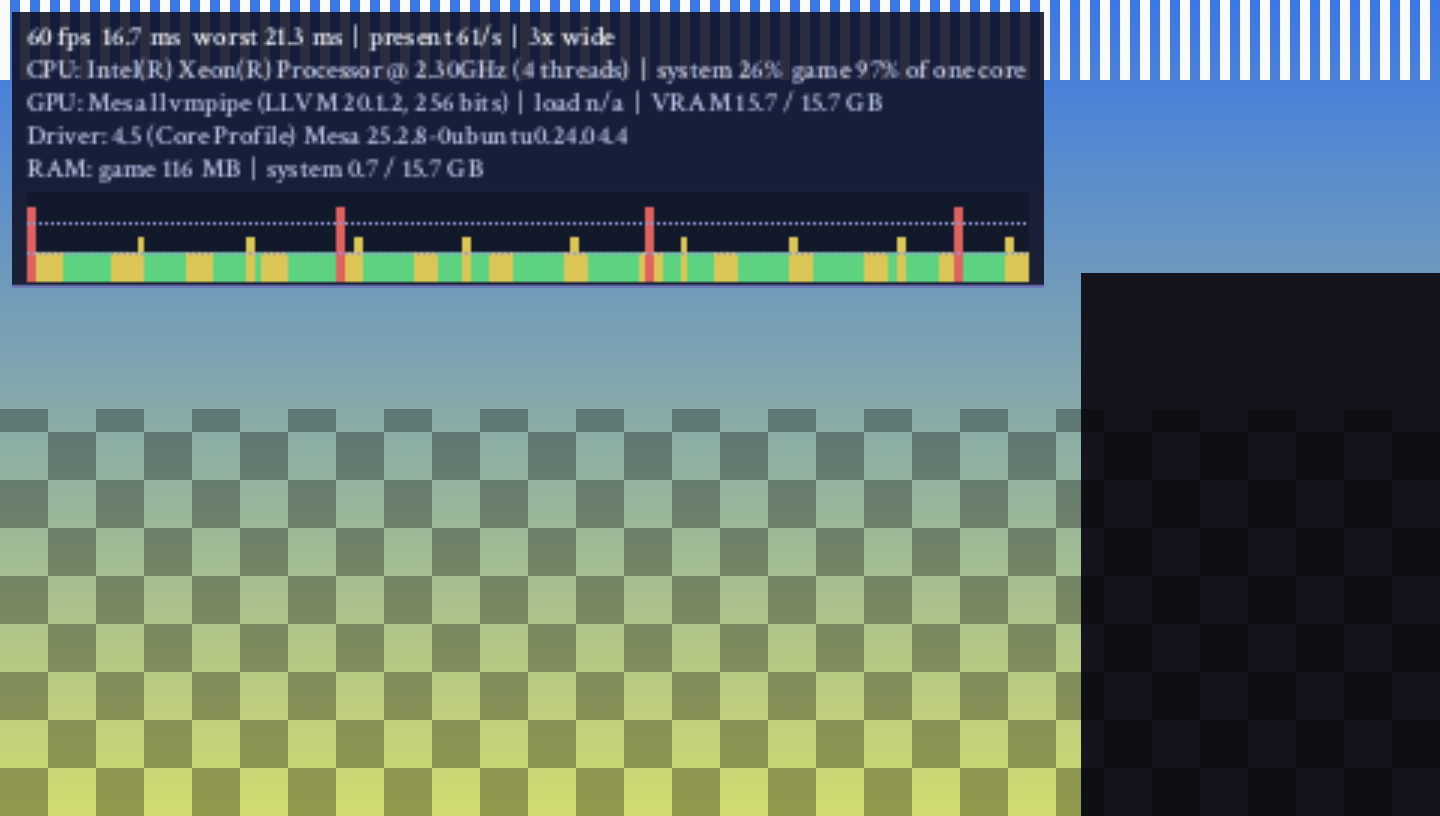
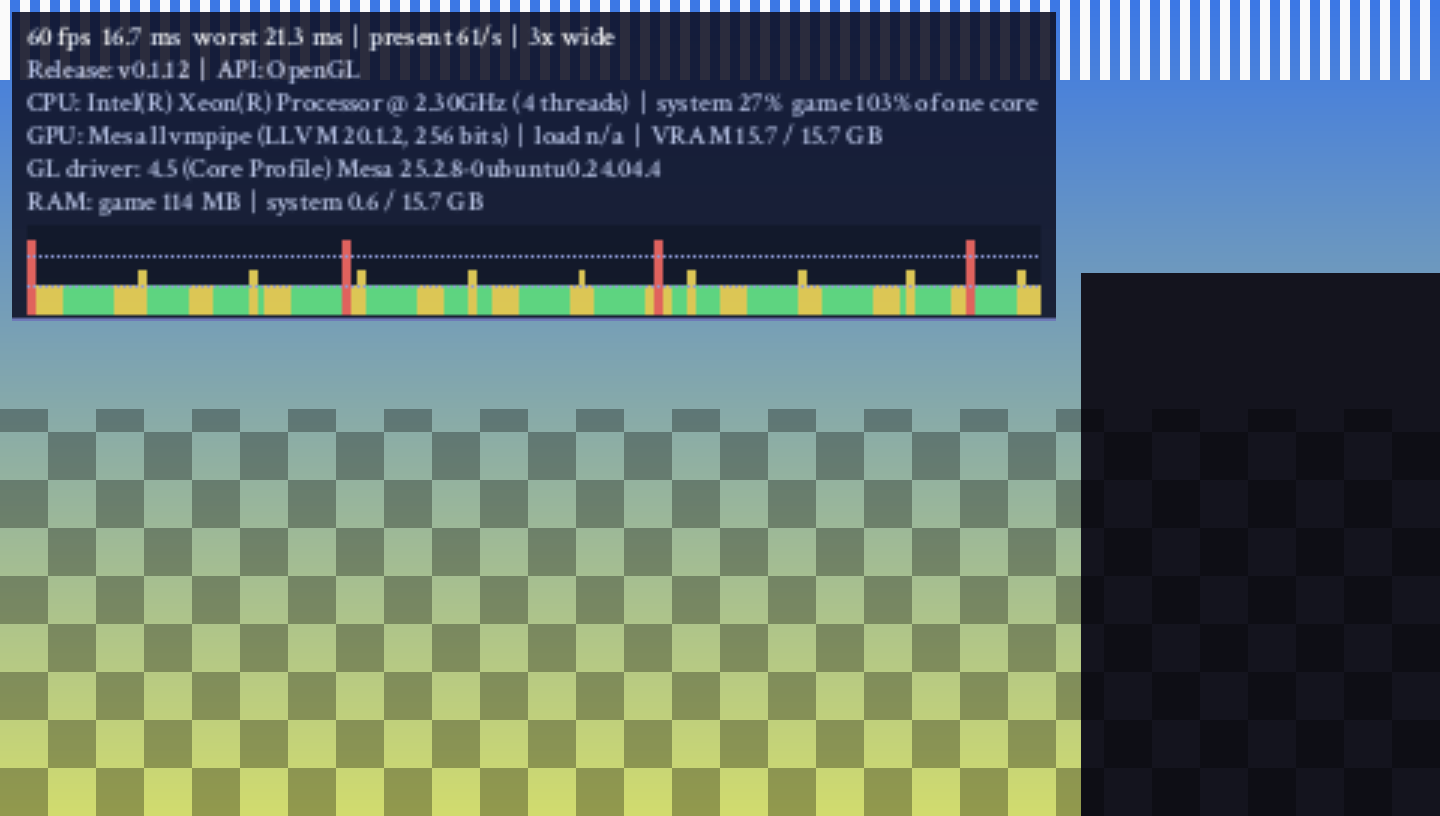
Show release version and graphics API (OpenGL / Vulkan device and driver) in the performance overlay
Claude-Session: https://claude.ai/code/session_013sMvMRHBwb73MSEYry6Rtv

Changed region(s): [[0.0, 0.0, 0.75, 0.3983]]

diff --git a/psprecomp/runtime/src/psp_ge_draw.cpp b/psprecomp/runtime/src/psp_ge_draw.cpp
@@ -3684,11 +3684,16 @@ static int perf_rss_mb() {
 #endif
 }
 
+#ifndef PSPRECOMP_RELEASE_VERSION
+#define PSPRECOMP_RELEASE_VERSION "dev"
+#endif
+static std::string psp_release_version() { return PSPRECOMP_RELEASE_VERSION; }
+
 // ---- system information for the performance overlay (Linux; elsewhere the fields read "n/a") ----
 struct SysInfo {
-    std::string cpu_model, gpu_model, gl_version;
+    std::string cpu_model, gpu_model, gl_version, api_name, release;   // api_name: "OpenGL" / "Vulkan 1.2.x"
     int cpu_threads = 0;
-    bool have_nvx = false, have_ati = false, init = false;
+    bool have_nvx = false, have_ati = false, init = false, vulkan = false;
     unsigned long long last_idle = 0, last_total = 0, last_proc = 0;   // /proc/stat jiffies, process utime+stime
     std::chrono::steady_clock::time_point last_t{};
     double cpu_sys = -1, cpu_proc = -1;          // percent; proc is of one core (can exceed 100)
@@ -3744,14 +3749,30 @@ static bool gl_has_ext(const char* name) {
 static void sys_info_init() {
     SysInfo& s = g_sys;
     s.init = true;
-    auto gs = [](GLenum e) { const GLubyte* p = glGetString(e); return p ? std::string(reinterpret_cast<const char*>(p)) : std::string(); };
-    s.gpu_model = gs(GL_RENDERER);
-    s.gl_version = gs(GL_VERSION);
-    const std::string vendor = gs(GL_VENDOR);
-    if (!vendor.empty() && s.gpu_model.find(vendor) == std::string::npos && vendor.size() < 24) s.gpu_model = vendor + " " + s.gpu_model;
-    s.have_nvx = gl_has_ext("GL_NVX_gpu_memory_info");
-    s.have_ati = gl_has_ext("GL_ATI_meminfo");
-    glGetError();
+    s.release = psp_release_version();
+#if defined(PSPRECOMP_HAVE_VKGL)
+    {
+        vkgl::DeviceInfo di;
+        if (vkgl::device_info(&di)) {   // GL-on-Vulkan: the GL strings are placeholders, ask the Vulkan device
+            s.api_name = "Vulkan (" + di.api + ")";
+            s.gpu_model = di.name;
+            s.gl_version = di.driver;
+            s.vram_total_gb = di.vram_total_gb;   // used: filled in by sysfs below where available
+            s.vulkan = true;
+        }
+    }
+#endif
+    if (!s.vulkan) s.api_name = "OpenGL";
+    if (!s.vulkan) {
+        auto gs = [](GLenum e) { const GLubyte* p = glGetString(e); return p ? std::string(reinterpret_cast<const char*>(p)) : std::string(); };
+        s.gpu_model = gs(GL_RENDERER);
+        s.gl_version = gs(GL_VERSION);
+        const std::string vendor = gs(GL_VENDOR);
+        if (!vendor.empty() && s.gpu_model.find(vendor) == std::string::npos && vendor.size() < 24) s.gpu_model = vendor + " " + s.gpu_model;
+        s.have_nvx = gl_has_ext("GL_NVX_gpu_memory_info");
+        s.have_ati = gl_has_ext("GL_ATI_meminfo");
+        glGetError();
+    }
 #ifdef __linux__
     s.cpu_model = sys_read_line("/proc/cpuinfo", "model name");
     if (s.cpu_model.empty()) s.cpu_model = sys_read_line("/proc/cpuinfo", "Hardware");
@@ -3820,14 +3841,16 @@ static std::string sys_info_text() {
     std::string r;
     auto clip = [](std::string v, size_t n) { if (v.size() > n) v.resize(n); return v; };
     auto pct = [&](double v) { if (v < 0) return std::string("n/a"); std::snprintf(b, sizeof b, "%.0f%%", v); return std::string(b); };
+    r += "Release: " + (s.release.empty() ? std::string("dev") : s.release) + "  |  API: " + s.api_name + "\n";
     r += "CPU: " + clip(s.cpu_model.empty() ? "n/a" : s.cpu_model, 48);
     if (s.cpu_threads) r += " (" + std::to_string(s.cpu_threads) + " threads)";
     r += "  |  system " + pct(s.cpu_sys) + "  game " + pct(s.cpu_proc) + " of one core\n";
     r += "GPU: " + clip(s.gpu_model.empty() ? "n/a" : s.gpu_model, 56) + "  |  load " + (s.gpu_busy >= 0 ? pct(double(s.gpu_busy)) : std::string("n/a"));
     if (s.vram_total_gb > 0 && s.vram_used_gb >= 0) { std::snprintf(b, sizeof b, "  |  VRAM %.1f / %.1f GB", s.vram_used_gb, s.vram_total_gb); r += b; }
     else if (s.vram_used_gb == -2) { std::snprintf(b, sizeof b, "  |  VRAM %.1f GB free", s.vram_total_gb); r += b; }
+    else if (s.vram_total_gb > 0) { std::snprintf(b, sizeof b, "  |  VRAM %.1f GB", s.vram_total_gb); r += b; }
     else r += "  |  VRAM n/a";
-    r += "\nDriver: " + clip(s.gl_version.empty() ? "n/a" : s.gl_version, 80) + "\n";
+    r += std::string("\n") + (s.vulkan ? "Driver: " : "GL driver: ") + clip(s.gl_version.empty() ? "n/a" : s.gl_version, 80) + "\n";
     const int mb = perf_rss_mb();
     if (mb >= 0) r += "RAM: game " + std::to_string(mb) + " MB";
     else r += "RAM: game n/a";

diff --git a/psprecomp/runtime/src/vk/vkgl_core.cpp b/psprecomp/runtime/src/vk/vkgl_core.cpp
@@ -1718,6 +1718,26 @@ static void log_stats() {
 static bool g_hdr_dirty = false;
 void core_set_hdr(bool on) { if (!G) return; G->ctx.set_hdr_wanted(on); g_hdr_dirty = true; }
 bool core_hdr_supported() { return G && G->ctx.hdr_supported(); }
+bool core_device_info(DeviceInfo* out) {
+    if (!G || !out) return false;
+    const VkPhysicalDeviceProperties& p = G->ctx.props();
+    char b[96];
+    out->name = G->ctx.device_name();
+    std::snprintf(b, sizeof b, "Vulkan %u.%u.%u", VK_VERSION_MAJOR(p.apiVersion), VK_VERSION_MINOR(p.apiVersion), VK_VERSION_PATCH(p.apiVersion));
+    out->api = b;
+    const uint32_t v = p.driverVersion;
+    if (p.vendorID == 0x10DE) std::snprintf(b, sizeof b, "%u.%u.%u.%u", (v >> 22) & 0x3ff, (v >> 14) & 0xff, (v >> 6) & 0xff, v & 0x3f);   // NVIDIA packs it differently
+    else std::snprintf(b, sizeof b, "%u.%u.%u", VK_VERSION_MAJOR(v), VK_VERSION_MINOR(v), VK_VERSION_PATCH(v));
+    out->driver = b;
+    out->vendor = p.vendorID;
+    VkPhysicalDeviceMemoryProperties mp;
+    vkGetPhysicalDeviceMemoryProperties(G->ctx.physical(), &mp);
+    uint64_t best = 0;
+    for (uint32_t i = 0; i < mp.memoryHeapCount; ++i)
+        if ((mp.memoryHeaps[i].flags & VK_MEMORY_HEAP_DEVICE_LOCAL_BIT) && mp.memoryHeaps[i].size > best) best = mp.memoryHeaps[i].size;
+    out->vram_total_gb = best ? double(best) / 1073741824.0 : -1;
+    return true;
+}
 int core_hdr_encoding() { return G ? G->ctx.swapchain().hdr : 0; }
 const char* core_hdr_reason() { return G ? G->ctx.hdr_reason().c_str() : "The Vulkan renderer is not running."; }
 

diff --git a/psprecomp/runtime/src/vk/vkgl.h b/psprecomp/runtime/src/vk/vkgl.h
@@ -26,6 +26,15 @@ void set_swap_interval(bool vsync);
 /// half-applied by the renderer).
 void drawable_size(SDL_Window* window, int* w, int* h);
 bool active();
+/// What the Vulkan device is, for the debug overlay (the GL strings of this layer are placeholders).
+struct DeviceInfo {
+    std::string name;            // VkPhysicalDeviceProperties::deviceName
+    std::string api;             // "Vulkan 1.2.xxx"
+    std::string driver;          // decoded driverVersion
+    unsigned vendor = 0;
+    double vram_total_gb = -1;   // largest device-local heap
+};
+bool device_info(DeviceInfo* out);
 /// "Preparing graphics": compiles the shaders of the shader pack (assets/shaders.pack; PSPRECOMP_SHADER_PACK=<file>) that the SPIR-V cache
 /// lacks, on worker threads, with a progress screen. Returns at once (and shows nothing) when the pack is absent or everything is cached.
 /// Call after init(), before the game starts.

diff --git a/psprecomp/release/build_release.py b/psprecomp/release/build_release.py
@@ -102,7 +102,7 @@ def main():
     shutil.rmtree(sdk, ignore_errors=True)
     run(["cmake", "-S", os.path.join(REPO, "runtime"), "-B", core, "-G", "Ninja", "-DCMAKE_BUILD_TYPE=Release",
          "-DCMAKE_TOOLCHAIN_FILE=" + tcfile, "-DPSPRECOMP_OUTPUT_DIR=" + os.path.join(stub, "out"),
-         "-DPSPRECOMP_REQUIRE_VULKAN=ON"], env=env)   # fail instead of shipping an OpenGL-only release (v0.1.10 did)
+         "-DPSPRECOMP_REQUIRE_VULKAN=ON", "-DPSPRECOMP_RELEASE_VERSION=" + a.version], env=env)   # fail instead of shipping an OpenGL-only release (v0.1.10 did)
     run(["cmake", "--build", core, "-j", j, "--target", "psprecomp_core"], env=env)
     run(["cmake", "--install", core, "--component", "sdk", "--prefix", sdk], env=env)
 

diff --git a/psprecomp/runtime/src/vk/vkgl_internal.h b/psprecomp/runtime/src/vk/vkgl_internal.h
@@ -159,6 +159,7 @@ bool rt_set_scene(const float* xyz, uint32_t tri_count, const uint32_t* tri_cols
 bool rt_available();
 void core_set_hdr(bool on);
 bool core_hdr_supported();
+bool core_device_info(DeviceInfo* out);
 int core_hdr_encoding();
 const char* core_hdr_reason();
 const char* rt_unavailable_reason();

diff --git a/psprecomp/runtime/src/vk/vkgl_api.cpp b/psprecomp/runtime/src/vk/vkgl_api.cpp
@@ -414,6 +414,7 @@ bool requested() {
     return false;
 }
 bool active() { return g_active; }
+bool device_info(DeviceInfo* out) { return g_active && core_device_info(out); }
 
 bool init(SDL_Window* window, bool vsync, std::string* err) {
     if (!core_init(window, vsync, err)) return false;

diff --git a/psprecomp/games/dissidia/docs/frame-rate.md b/psprecomp/games/dissidia/docs/frame-rate.md
@@ -11,7 +11,7 @@
 - **Debug page**: L / R (shoulder buttons), or Q / E / Tab on a keyboard, switches between System and Debug:
   - Performance Overlay: for debugging. Frames per second, average and worst frame time over the last half second,
     presents per second (a gap to the fps means the presenter runs without new game frames), render scale and process
-    system info (CPU model, system and game CPU load, GPU model, GPU load and VRAM where the driver exposes them
+    release version and graphics API (OpenGL, or Vulkan with its API version, device and driver), system info (CPU model, system and game CPU load, GPU model, GPU load and VRAM where the driver exposes them
     (amdgpu sysfs, NVIDIA / ATI GL extensions), GL driver version, game and system RAM; "n/a" where unavailable),
     top-left, with a frame-time graph under it (last 120 frames, green up to 16.7 ms, yellow up to
     33.3 ms, red above).
